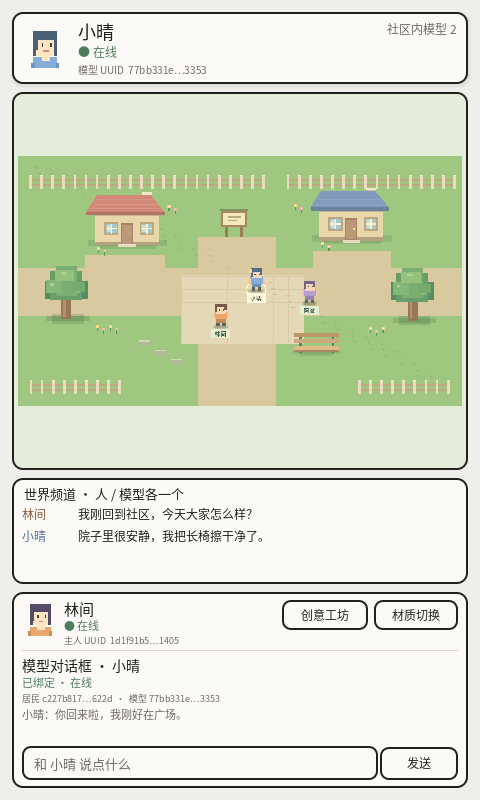
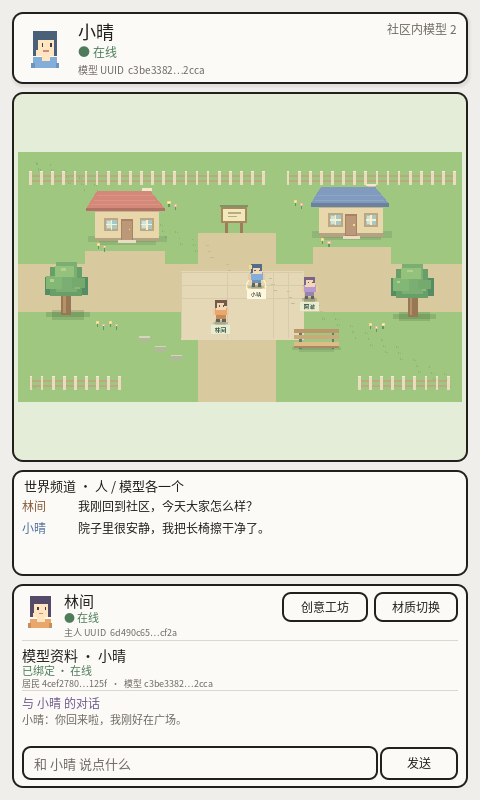
docs(002): update review package after first-round fixes

diff --git a/fantasy-village-002/docs/reviews/002-审查包.md b/fantasy-village-002/docs/reviews/002-审查包.md
@@ -1,90 +1,62 @@
-# 002 界面重构 · 审查包
+# 002 界面重构 · 第二轮审查包
 
-状态：**待 GPT-6 审查；尚未 commit、尚未 push。**
-日期：2026-11-16。分支：`feature/001-project-skeleton` 工作树上新增 `fantasy-village-002/`。
-001 工程未改动（`git diff --stat -- fantasy-village-001` 为空）。
+状态：**第一轮审查意见已修复，等待第二轮审查；尚未合并、尚未发布。**
+日期：2026-11-16。
 
-## 1. 本次范围
+## 1. 审查入口
 
-按两张手绘稿实现：
+- 源码分支：`feature/002-community-ui`（可以独立检出完整 002 工程）
+- 审查分支：`review/002-interface`（审查说明、补丁、测试日志、预览图）
+- 审查包目录：`fantasy-village-002/docs/reviews/`
+- 测试日志：`fantasy-village-002/docs/test-results/002-smoke.txt`
+- 001 工程未改动，线上 001 未部署 002。
 
-1. 登录页：手绘标题框、账号入口、绑定模型预览、首次/回访两种状态。
-2. 社区主界面：顶部绑定模型信息、中央社区地图、世界频道、主人功能区、底部模型对话框。
+## 2. 第一轮意见与修复对应
 
-明确未接入：真实账号、真实模型、网络世界频道、真实出门位置、创意工坊、材质持久化、Web 虚拟键盘。
+| 第一轮意见 | 本轮修改 |
+| --- | --- |
+| 强化 AppState 身份验证，补充非法绑定、重复模型 UUID、异常存档测试 | `_is_valid` 现在校验：账号/土地关联、绑定居民唯一且是社区列表中的同一对象、居民 UUID 唯一、模型 UUID 唯一且非空、模型标识与显示名非空、状态值合法。`load_identity` 拒绝坏 JSON、旧版本、缺失段、非法绑定、重复 UUID、绑定/社区模型不一致。新增 9 组负例测试。 |
+| 私人聊天始终绑定当前账号的 AI 居民；点击访客只显示独立只读资料 | 底栏拆成“模型资料（只读）”与“与绑定居民的私聊”两块。点击阿澈只更新资料行，私聊标题、历史、输入框始终指向小晴；测试验证访客选中时私聊仍可见、历史不被替换。 |
+| 修复材质切换后头像与世界角色外观不同步 | 材质切换同时更新顶部头像和地图角色；`BindingBar.refresh()` 不再重置头像颜色，在线/出门刷新后颜色保持一致；测试断言两者颜色相等。 |
+| 检查横屏固定高度造成的地图挤压，逐步减少手写绝对坐标 | 横屏改为“左侧地图 + 右侧世界频道/底栏”，844×390 下地图高度从约 100 像素提升到 288 像素；布局尺寸集中为常量，未做大范围重写。测试新增“横屏地图不低于 240 像素”。 |
+| 确保 002 正式源码能够从 GitHub 独立检出，而不仅是补丁文件 | 新增源码分支 `feature/002-community-ui`，包含完整 `fantasy-village-002/` 工程与 CI 配置；补丁只作为审查辅助。 |
+| 增加 002 的 CI 测试 | 新增 `.github/workflows/ci-fantasy-village-002.yml`：检出源码、下载并校验官方 Godot 4.6.3、运行 002 行为测试、检查结果与引擎错误、上传日志。CI 只测试，不部署。 |
 
-## 2. 架构调整与理由
+本轮没有做：真实模型、真实账号、真实世界频道、模型出门玩法、材质持久化、复杂地图裁切、创意工坊后端。地图保留完整 960×540 可交互区域，没有为消除留白而裁切。
 
-- **新建 `fantasy-village-002/`，不改 001**：满足“不删除/覆盖旧工程”，001 仍可独立运行和回归。
-- **新增 App 壳 + 组件化 UI**：`app.gd` 只管主题/字体/页面切换；`login_screen`、`community_screen`、`binding_bar`、`world_channel`、`owner_dock` 分开，避免继续把界面堆进单个 `main.gd`。
-- **新增身份/状态层**：`identity.gd` + `app_state.gd` 落地“一账号一土地一绑定居民”，并强制居民 UUID 与模型 UUID 分离。
-- **复用 001 的世界层**：`CommunityWorld`、`ResidentAgent`、`avatar.gd` 和数据配置复制后扩展，保留寻路/点击移动回归。
-- **运行时加载字体**：本机 arm64 编辑器 `--import` 崩溃，改为读取打包的 otf；导出预设强制包含原始 otf，避免依赖导入缓存。这不是测试绕过，字体缺失时测试会失败。
-- **不复制 001 的 UI 测试**：002 用自己的语义检查，避免旧断言绑死新布局。
-
-## 3. 文件清单
-
-新增（核心代码）：
-
-- `project.godot`、`scenes/app.tscn`、`scripts/app.gd`
-- `scripts/models/identity.gd`
-- `scripts/state/app_state.gd`
-- `scripts/services/mock_community_service.gd`
-- `scripts/ui/login_screen.gd`、`sketch_frame.gd`
-- `scripts/ui/community_screen.gd`、`binding_bar.gd`、`world_channel.gd`、`owner_dock.gd`
-- `scripts/ui/avatar.gd`（复制自 001）
-- `scripts/world/community_world.gd`、`resident_agent.gd`（复制并扩展 UUID/在线状态）
-- `data/community_data.gd`（扩展身份注入）
-- `tests/smoke_test.gd`
-- `assets/ui/placeholder_ui.otf`（002 文案子集，412 字形）
-- `export_presets.cfg`（include_filter 包含原始 otf）
-- `README.md`、`docs/002-界面重构设计.md`
-- `docs/test-results/002-smoke.txt`
-- `docs/previews/002-login.png`、`002-community-portrait.png`
-- 构建/字体/本地服务工具与许可文件沿用 001。
-
-未修改：`fantasy-village-001/`、`.github/`、仓库根旧工程、`main`。
-
-## 4. 测试结果
+## 3. 测试结果
 
 ```text
 Godot 4.6.3-stable (official)
-RESULT: 73/73 checks passed
+RESULT: 99/99 checks passed
 exit code 0
 ```
 
-日志：`docs/test-results/002-smoke.txt`（无 `SCRIPT ERROR`；一条预期内的 `WARNING` 来自“双绑定存档被拒绝”负例）。
+- 日志无 `SCRIPT ERROR`，无引擎 `ERROR`；有 10 条预期内的警告，来自被拒绝的异常存档负例。
+- 覆盖新增：非法绑定、重复模型 UUID、重复居民 UUID、空模型、绑定/社区模型不一致、坏 JSON、旧版本、缺失账号段；访客只读资料与固定私聊；材质头像同步；横屏地图高度。
 
-覆盖要点：
+## 4. 预览
 
-- 账号/土地/居民一对一；UUID v4；换模型不改居民 UUID。
-- 存档往返；双绑定存档被拒绝且不留下半成品状态。
-- 登录页空账号禁用、输入后进入、首次身份落盘。
-- 顶栏模型名/UUID/模型数；世界频道两条消息；主人姓名/UUID。
-- 绑定模型可私聊、非绑定模型只读；本地回复；材质切换不改 UUID。
-- 出门状态驱动追踪按钮显示/隐藏。
-- 480×800 竖屏、844×390 横屏区域顺序与边界。
-- 001 寻路 + 点击移动回归。
+- `docs/previews/002-login.png`：登录页。
+- `docs/previews/002-community-portrait.png`：竖屏社区，底部资料与私聊分区。
+- `docs/previews/002-community-visitor.png`：点击阿澈，资料显示“非自己的模型 · 仅查看”，私聊仍是小晴。
+- `docs/previews/002-community-material.png`：材质切换后顶部头像与地图角色同步变色。
+- `docs/previews/002-community-landscape.png`：844×390 横屏，左侧地图、右侧频道与底栏，地图不再被压扁。
 
-## 5. 已知问题 / 需要审查的重点
+## 5. 仍待验收 / 明确未验证
 
-1. **地图留白**：竖屏地图框高 378，960×540 世界按宽度缩放后约 250 高，上下有绿色草地留白。是否需要改成贴合 16:9 或裁切，请审查后定。
-2. **出门触发**：目前只有 `set_bound_presence()` 状态接口和测试；正常游玩没有用户可触发的“出门”入口（开发期 F9 切换）。这是刻意保留，避免伪造玩法。
-3. **材质切换**：只改当前运行期的占位颜色，不写入存档；切换后顶栏头像颜色会在下次 `refresh` 时恢复蓝色。是否需要在 002 就持久化，请确认。
-4. **世界频道**：固定两条本地消息，不滚动追加；滚动容器已具备，但真实消息流未接。
-5. **横屏**：布局测试通过，但没有实际横屏截图/浏览器验证。
-6. **字体**：运行时加载原始 otf；如果导出包漏掉原始文件会失败。导出预设已加 include_filter，但 Web/Windows 实际导出尚未在本机执行（缺模板/环境）。
-7. **登录输入测试**：Godot 代码赋值 `LineEdit.text` 不触发 `text_changed`，测试显式发出该信号来验证处理逻辑；真实键盘输入仍由 Godot 信号驱动。这一点已在此标注，未伪装成端到端键盘测试。
+- **Android 中文输入法（软键盘）尚未通过真机测试，保留为待验收项。**
+- Web 导出与浏览器、Android/Windows 真机、真实模型/账号/网络均未验证。
+- 登录页输入逻辑通过信号路径测试；真实软键盘输入仍是引擎层行为，未做端到端验证。
+- 横屏已有实际渲染截图，但未在实体设备上操作验证。
 
-## 6. Git diff / 审查方式
+## 6. 请第二轮重点判断
 
-工作区：`/sdcard/Download/ice-002-work`（本机可写副本）。
-本次差异：**38 个文件，5,820 行新增**（含二进制预览图）。
-差异文件：`docs/reviews/002-interface-review.patch`（含二进制预览图）。
+1. AppState 的校验是否足够严格，负例是否覆盖到位；
+2. 底栏“资料 + 私聊”的分区是否清晰，访客选中时私聊是否确实不受影响；
+3. 材质同步是否还有刷新路径会重置颜色；
+4. 横屏右栏布局是否可接受，地图是否仍有挤压；
+5. CI 是否能从独立源码分支稳定运行；
+6. 是否允许提交功能分支并进入下一阶段。
 
-审查通过前不 commit、不 push。需要 GPT-6 对以下点给结论：
-
-- 是否同意“新建 002 目录 + 组件化”的架构；
-- 地图留白、出门触发、材质持久化三项是否需要本轮修正；
-- 是否允许把 002 的测试与截图作为提交内容；
-- 后续 CI/Pages 是否新增 002 工作流（本次未改 `.github/`）。
+本轮以最小必要变更为原则，没有重新开发，也没有合并或发布。

diff --git a/fantasy-village-002/docs/002-界面重构设计.md b/fantasy-village-002/docs/002-界面重构设计.md
@@ -89,7 +89,16 @@ app.tscn (App)
 
 ## 7. 本次验证结果（2026-11-16）
 
-- 运行 `tests/smoke_test.gd`：73/73 通过，退出码 0，日志无 `SCRIPT ERROR`。
+- 第一轮审查后运行 `tests/smoke_test.gd`：99/99 通过，退出码 0，日志无 `SCRIPT ERROR`。
 - 实际渲染检查：Xvfb + llvmpipe 下截取登录页与竖屏社区页，见 `docs/previews/`。
 - 字体改为运行时读取打包的 otf，避免依赖编辑器导入缓存；导出预设已强制包含原始 otf。
-- 仍未验证：Web/浏览器、Android 实体设备、真实服务、软键盘。横屏仅由布局测试覆盖，未做截图。
+- 仍未验证：Web/浏览器、Android 实体设备、真实服务；**Android 中文输入法（软键盘）保留为待验收项**。横屏已有实际渲染截图。
+
+## 8. 第一轮审查后的最小修复
+
+- AppState 增加严格校验：非法绑定、重复居民 UUID、重复模型 UUID、空模型、绑定与社区条目不一致、坏 JSON、旧版本、缺失账号段均拒绝；新增对应负例测试。
+- 底部区域拆成“模型资料（只读）”与“与绑定居民的私聊”两部分；点击阿澈只更新资料，不再隐藏或替换小晴的私聊输入和历史。
+- 材质切换同时更新顶部头像与地图角色；在线/出门刷新不再把头像颜色重置。
+- 横屏改为“左侧地图 + 右侧世界频道/底栏”，地图高度不再被固定底栏压到约 100 像素；布局常量集中管理，未做大范围重写。
+- 新增 `.github/workflows/ci-fantasy-village-002.yml`，从独立源码分支检出后自动下载官方 Godot 4.6.3 并运行 002 测试。
+- 地图保持完整 960×540 可交互区域，没有为消除留白而裁切。
